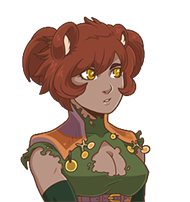
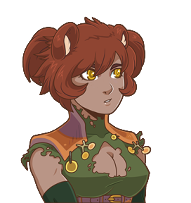
Tailoring for Uyae's tunic

diff --git a/Bust Config.rb b/Bust Config.rb
@@ -23,6 +23,7 @@ Busty::FACE_TO_BUST = {
   "Riala emo2" => "Riala2",
   "Sabitha H emo" => "SabithaH",
   "Ulrissa emo3" => "Ulrissa2",
+  "Uyae2 emo" => "Uyae2",
   "Uyae emo2d" => "Uyae God Flip",
   "Z Andra emo" => nil, # To only allow face 4, see below
   "Z Andra emoN" => nil, # No bust for no robe Andra
@@ -165,6 +166,13 @@ class Window_Message < Window_Base
         nil,
         nil,
         face_name = 'Vera emo'
+      ]
+    elsif character_name == 'Uyae' && $game_switches[1481] # YHILIN III
+      # fix up Uyae's clothes after returning from first Zirantia trip
+      return [
+        nil,
+        nil,
+        face_name = 'Uyae2 emo'
       ]
     end
 
@@ -663,7 +671,6 @@ Busty::CONFIG.merge!({
   "Uyae" => {
     face_offset_x: 52,
     face_offset_y: 42,
-
     bust_offset_x: -20,
     fade: false,
   },
@@ -943,6 +950,8 @@ Busty::CONFIG.merge!({
 })
 # Ulrissa hidden behind wolf mask
 Busty::CONFIG["Ulrissa2"] = Busty::CONFIG["Ulrissa"]
+# Uyae with fixed clothes
+Busty::CONFIG["Uyae2"] = Busty::CONFIG["Uyae"]
 # Dark Xestris
 Busty::CONFIG["Xestris2"] = Busty::CONFIG["Xestris"]
 # Xestris ear positions
